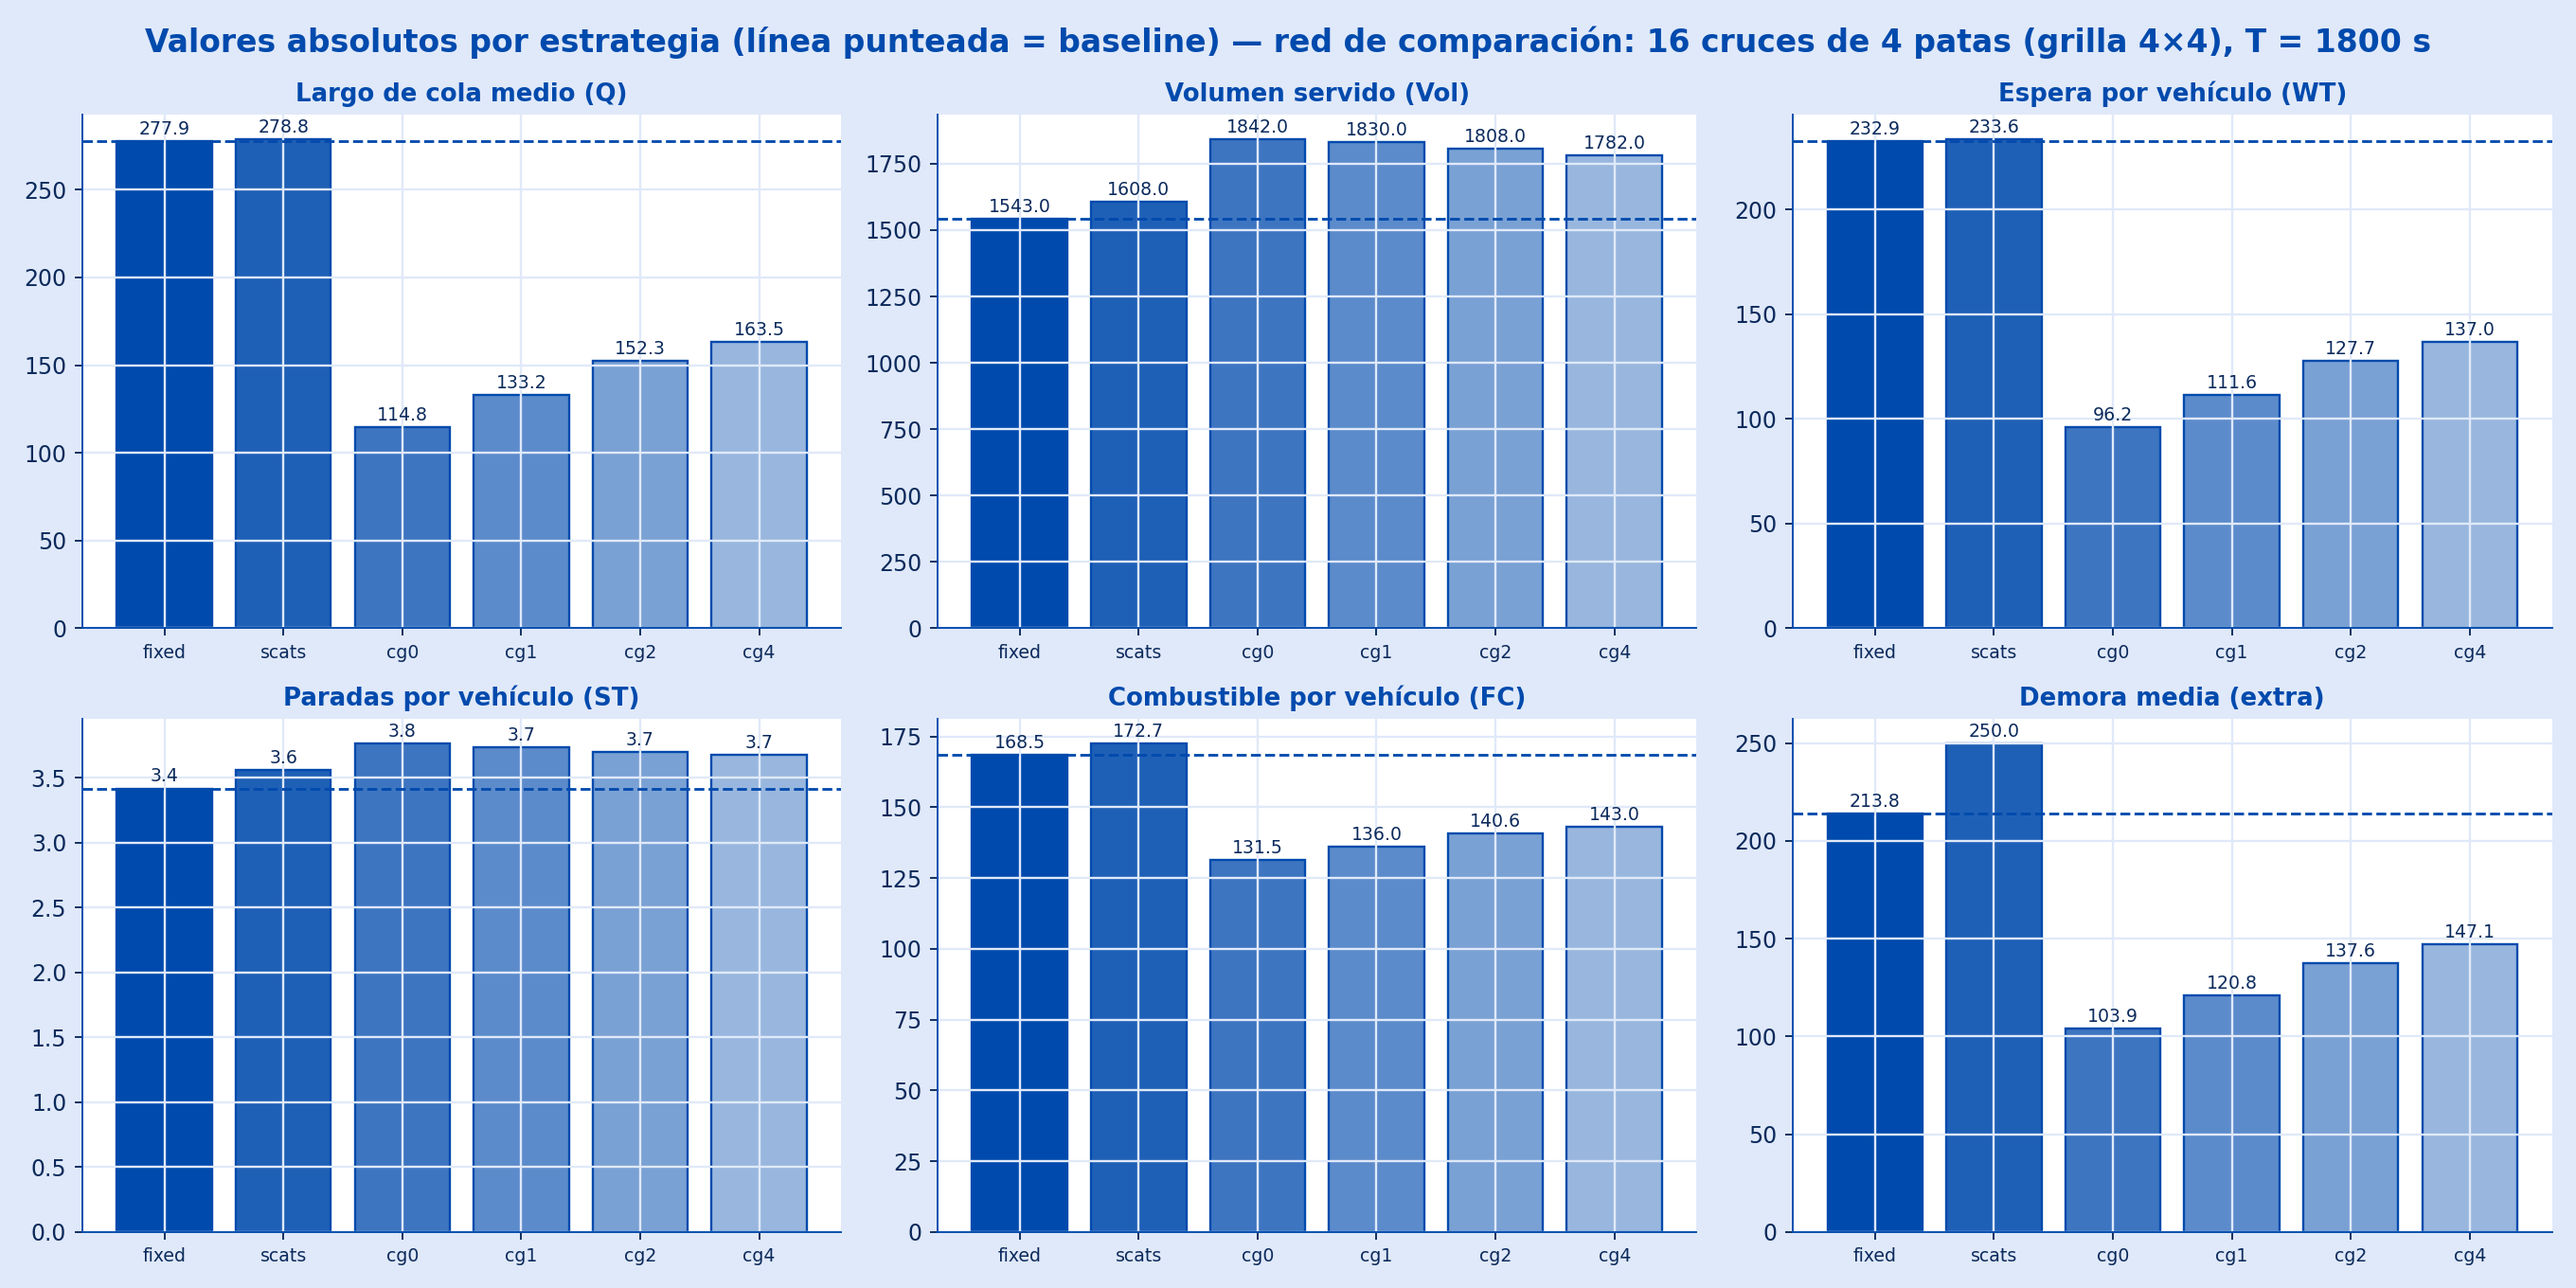
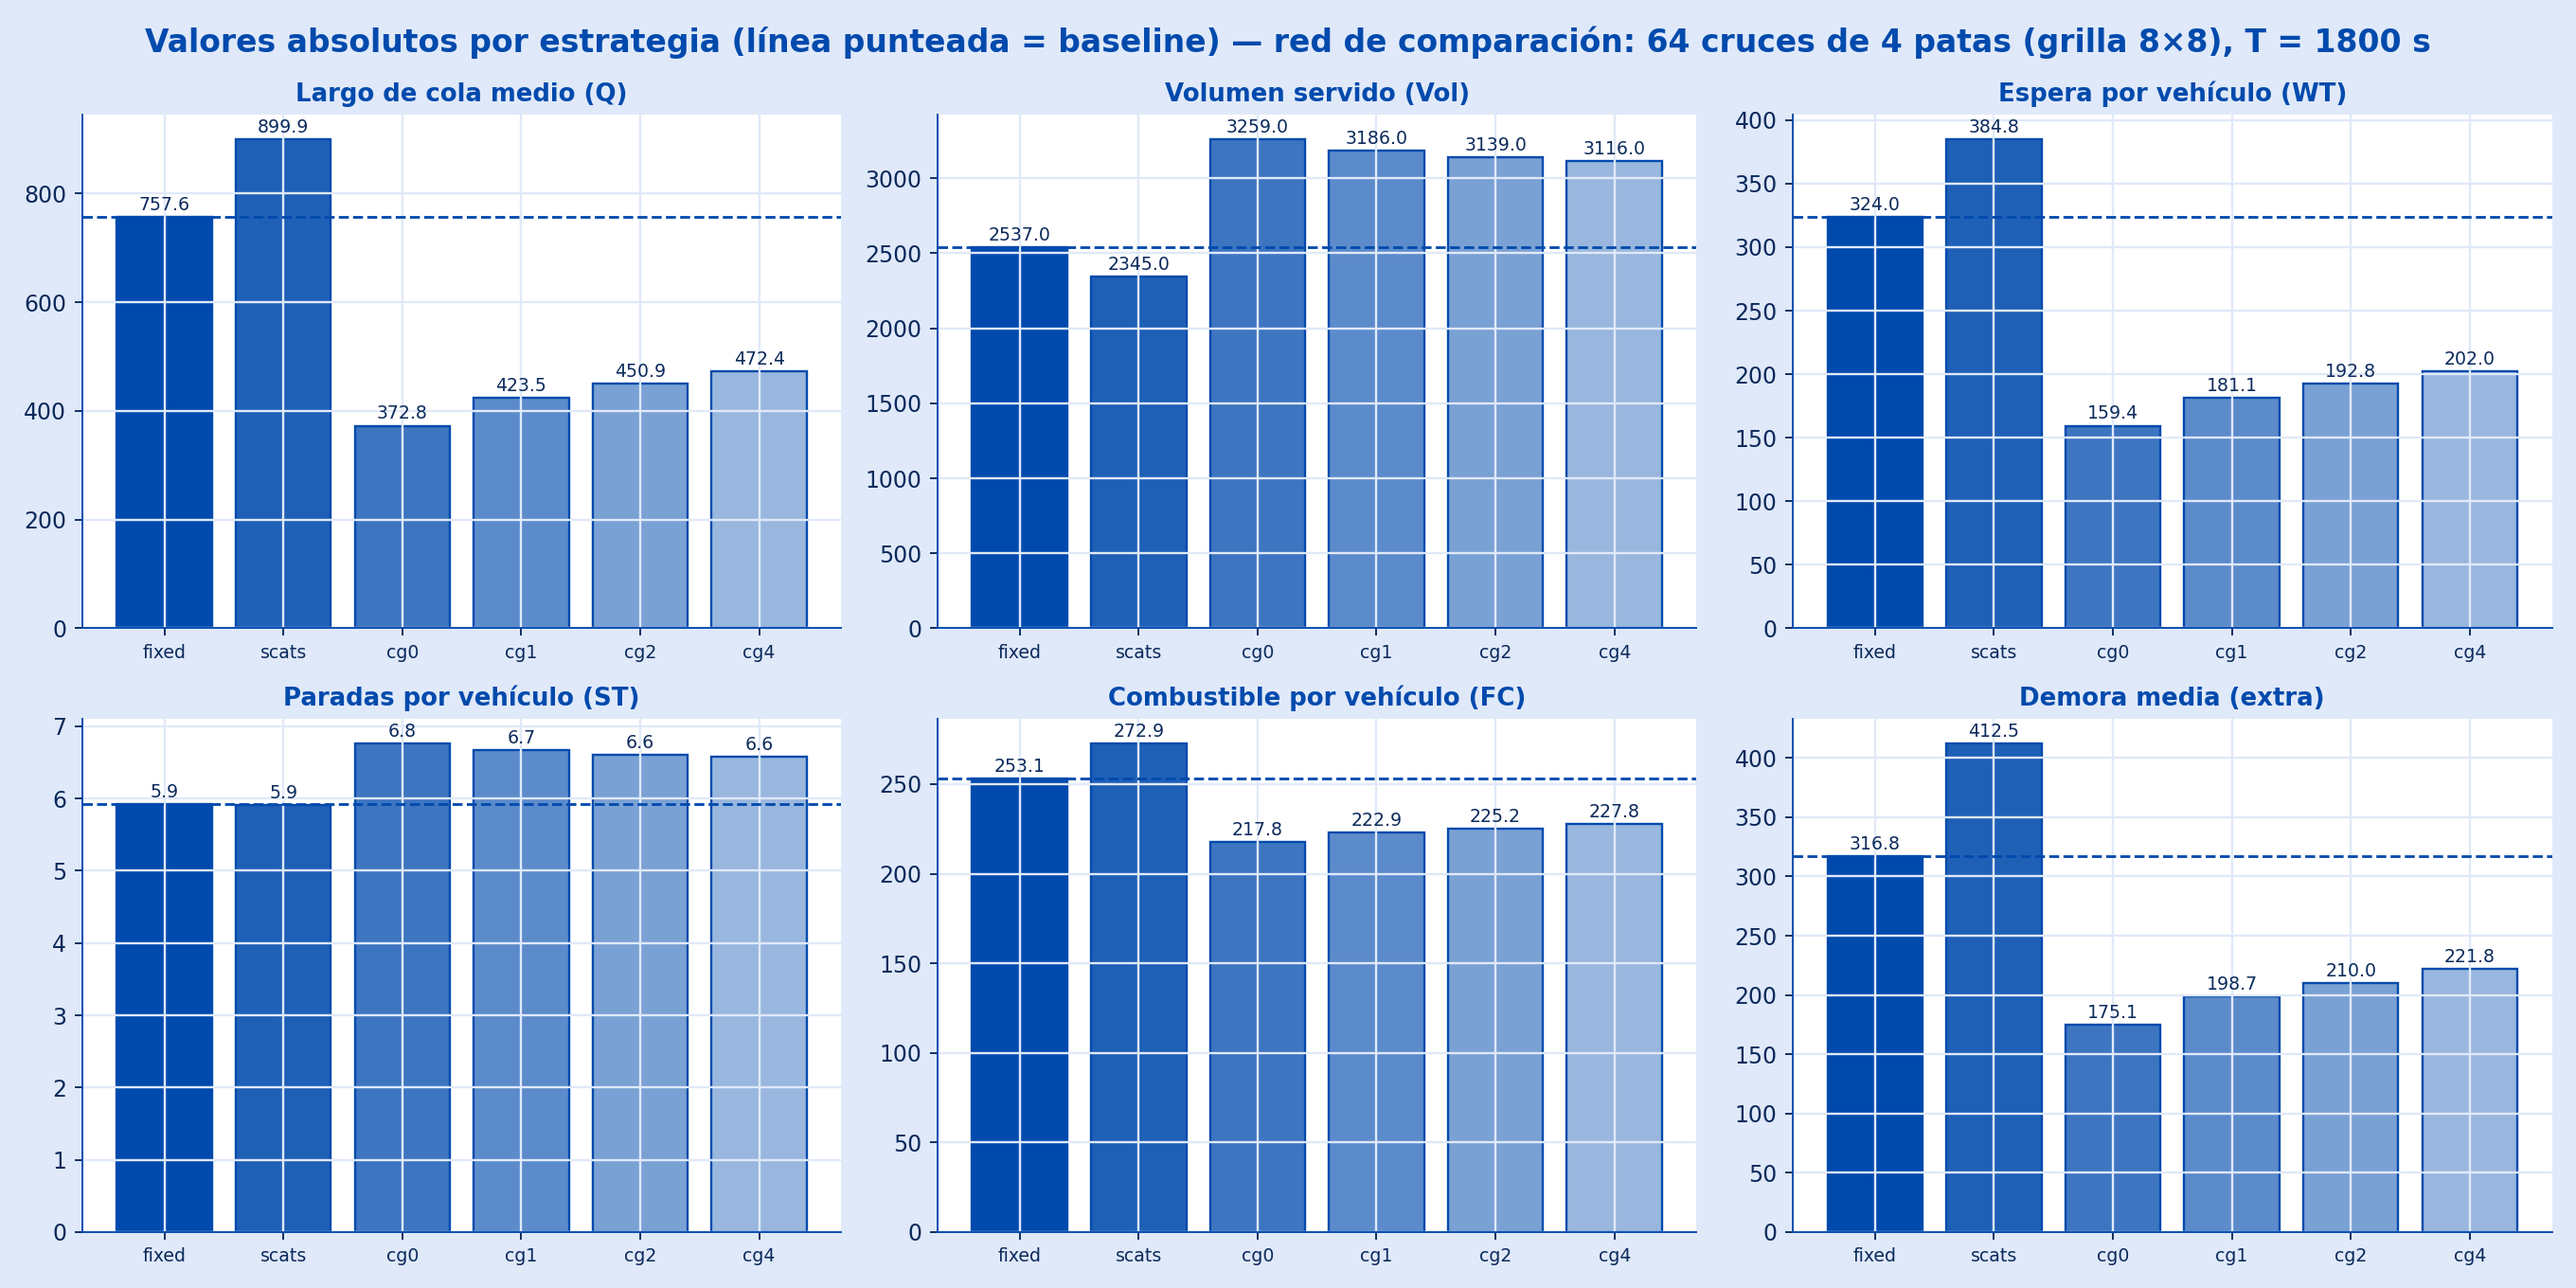
fixed some things

diff --git a/traffic_signals_simulator.py b/traffic_signals_simulator.py
@@ -17,12 +17,8 @@ Dos redes distintas:
 
 Dependencias:   pip install numpy matplotlib networkx
 Estructura:     <proyecto>/six_intersections_signals.py
-                <proyecto>/src/background.png      <- imagen sobre la que se proyecta
+                <proyecto>/background.png      <- imagen sobre la que se proyecta
                 <proyecto>/results/                <- se crea sola (gráficos y grafos)
-
-Uso típico:
-    python six_intersections_signals.py --calibrate        # solo calles sobre la imagen
-    python six_intersections_signals.py --duration 1800    # corre todo y proyecta la simulación
 
 ÍNDICE DEL ARCHIVO
     1. Configuración (todas las constantes PREDETERMINADAS; nada se aprende)
@@ -33,18 +29,6 @@ Uso típico:
     6. Gráficos de resultados (tema azul) y guardado en carpeta
     7. Proyección de la simulación sobre la imagen (con panel de texto en vivo)
     8. Programa principal
-
-SOBRE EL SIGNIFICADO DE t Y T EN EL PAPER (rectificación)
-    * T es el final del horizonte de simulación; t avanza de a Δt (intervalo de actualización).
-    * En cada instante de decisión t se miden las condiciones ACTUALES de cada movimiento
-      (cola, volumen en la ventana reciente, espera, paradas, combustible) y con eso se calcula
-      el peso del nodo (Ec. 1). Con esos pesos cada cruce elige su MWIS. NO se acumula una función
-      objetivo sobre [0, T] ni se "olvida todo" al llegar a T: al llegar a T la simulación termina.
-    * La memoria entre decisiones es solo física (las colas siguen ahí) más la duración del verde
-      del conjunto actual (término θ·d y chequeo de verde máximo), que se reinicia al cambiar de fase.
-    * El verde que "obtuvo" un cruce no es parte del peso, salvo vía ese término d.
-    * Los gráficos de barras SÍ acumulan sobre todo [0, T], pero son métricas de EVALUACIÓN,
-      no lo que optimiza el controlador (que es voraz/miope: sirve lo más congestionado ahora).
 """
 from __future__ import annotations
 
@@ -99,15 +83,11 @@ STREETS = {
     "Av. 25 de Mayo": {"start_x": 255.0,  "start_y": 1510.0, "angle_degrees": -5.0,  "length_pixels": 6900.0, "stretch": 1.0, "lanes_per_direction": 2},
     "Sarmiento":      {"start_x": 255.0,  "start_y": 3268.0, "angle_degrees": -5.6,  "length_pixels": 6800.0, "stretch": 1.0, "lanes_per_direction": 2},
 }
-# Valores ESTIMADOS a ojo desde una captura de 1287 px de ancho (x6.37 para llegar a los 8192 px reales).
-# Benito Juárez es la menos segura. Refinar con:  python six_intersections_signals.py --calibrate
 VERTICAL_STREET_NAMES = ["M. Irigoyen", "Perdriel", "Benito Juárez"]     # derecha -> izquierda
 HORIZONTAL_STREET_NAMES = ["Av. 25 de Mayo", "Sarmiento"]                # arriba -> abajo
 
 # Escala píxel -> metro. Convierte el largo en píxeles de cada tramo a metros reales, de los cuales
 # dependen el tiempo de viaje en flujo libre (largo / velocidad) y cuántos vehículos caben en el tramo.
-# Calibrar midiendo en Google Earth una distancia conocida (p. ej. entre dos horizontales a lo largo de
-# Perdriel) y dividiéndola por su largo en píxeles de ESTA imagen de 8192 px. Estimación inicial: 0.10.
 METERS_PER_PIXEL = 0.10
 MINIMUM_LINK_LENGTH_METERS = 10.0
 
@@ -165,7 +145,7 @@ ENTRY_DEMAND_VEHICLES_PER_HOUR = {
 # mililitros) se eligieron para que ningún término domine: una cola de ~8 vehículos que esperó ~30 s
 # aporta a cada término valores del mismo orden de magnitud.
 OBJECTIVE_WEIGHTS = {
-    "queue_length": 1.0,         # β_Q   · Q  : vehículos detenidos esperando en el movimiento
+    "queue_length": 2.0,         # β_Q   · Q  : vehículos detenidos esperando en el movimiento
     "traffic_volume": 0.5,       # β_vol · Vol: vehículos llegados en la ventana del detector
     "waiting_time": 0.05,        # β_WT  · WT : suma de los segundos que esperan los vehículos de la cola
     "number_of_stops": 2.0,      # β_ST  · ST : paradas promedio de los vehículos de la cola (indica sobresaturación)
@@ -184,8 +164,7 @@ MAXIMUM_GREEN_TERM_WEIGHT = 0.1
 # no responde a cambios de la demanda. El paper encontró 20 s como óptimo en su red.
 UPDATE_INTERVAL_SECONDS = 20.0
 
-# Verde máximo g_max: tope de duración continua del verde de un mismo conjunto de movimientos. Evita que
-# un movimiento muy congestionado deje esperando indefinidamente a los de la calle menor (inanición).
+# Verde máximo g_max: tope de duración continua del verde de un mismo conjunto de movimientos.
 MAXIMUM_GREEN_SECONDS = 60.0
 
 # Influencia b_{u,k} y b_{d,k} del vecindario de orden k (Ec. 4): cuánto pesa el estado de los movimientos
@@ -252,8 +231,8 @@ GREEN_ARROW_COLOR = "#00c853"
 # los 6 de la imagen más 10. La separación entre cruces se toma del promedio de la red de la imagen, así los
 # tramos tienen un largo comparable. Más cruces = más interacción entre semáforos vecinos, que es justamente
 # lo que mide el orden k del grafo de conectividad, y métricas menos sensibles a un solo cruce.
-BENCHMARK_GRID_VERTICAL_STREETS = 4
-BENCHMARK_GRID_HORIZONTAL_STREETS = 4
+BENCHMARK_GRID_VERTICAL_STREETS = 10
+BENCHMARK_GRID_HORIZONTAL_STREETS = 10
 BENCHMARK_VERTICAL_DEMAND_VEHICLES_PER_HOUR = 220.0
 BENCHMARK_HORIZONTAL_DEMAND_VEHICLES_PER_HOUR = 300.0
 
